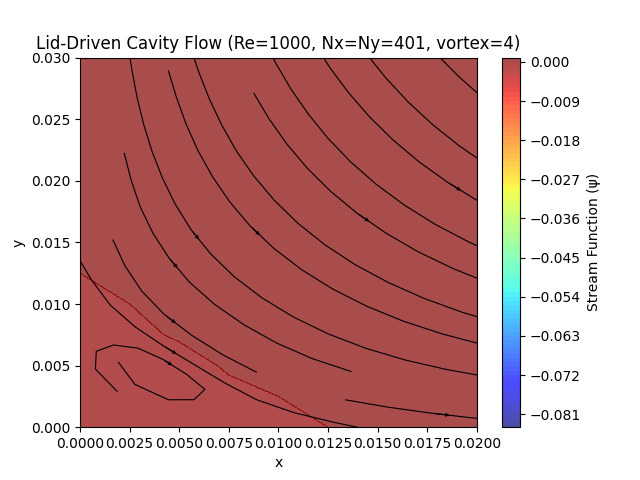
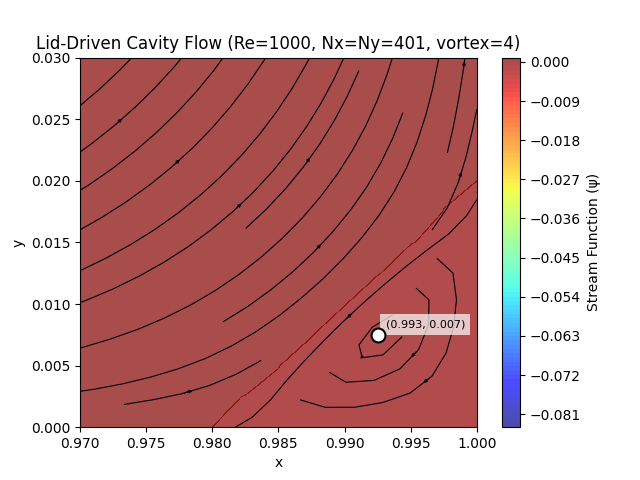
增添涡心标注

diff --git a/HW5forCFD/plot.py b/HW5forCFD/plot.py
@@ -2,6 +2,15 @@ import numpy as np
 import matplotlib.pyplot as plt
 
 data = np.load('./data/flow_data.npz', allow_pickle = True)
+vortex = []
+
+def find_vortex(x, y, psi, N):#寻找流函数极值点确定涡心
+    for j in range(N - 2, 0, -1):
+        for i in range(1, N - 1):
+            if psi[i, j] > max(psi[i - 1, j], psi[i + 1, j], psi[i, j - 1], psi[i, j + 1], psi[i + 1, j + 1], psi[i - 1, j + 1], psi[i - 1, j - 1], psi[i + 1, j - 1]):
+                vortex.append([x[i], y[j]])
+            elif psi[i, j] < min(psi[i - 1, j], psi[i + 1, j], psi[i, j - 1], psi[i, j + 1], psi[i + 1, j + 1], psi[i - 1, j + 1], psi[i - 1, j - 1], psi[i + 1, j - 1]):
+                vortex.append([x[i], y[j]])
 
 #绘图，ai生成
 def plot_streamline(x, y, psi, u, v, N, density, x_start, x_end, y_start, y_end, num):#order代表着重展示的涡的编号
@@ -29,6 +38,9 @@ def plot_streamline(x, y, psi, u, v, N, density, x_start, x_end, y_start, y_end,
     plt.xlim(x_start, x_end)
     plt.ylim(y_start, y_end)
 
+    plt.scatter(vortex[num - 1][0], vortex[num - 1][1], s=100, c='white', edgecolors='black', linewidths=1.5, zorder=4)
+    plt.text(vortex[num - 1][0] + (x_end - x_start) / 50, vortex[num - 1][1] + (y_end - y_start) / 50, f'({vortex[num - 1][0]:.3f}, {vortex[num - 1][1]:.3f})', fontsize=8, bbox=dict(facecolor='white', alpha=0.7, edgecolor='none'))
+    
     plt.title(f'Lid-Driven Cavity Flow (Re={1000}, Nx=Ny={N}, vortex={num})')
     plt.xlabel('x')
     plt.ylabel('y')
@@ -58,10 +70,11 @@ def plot_u(N, x, u):
     plt.grid(True)
     plt.savefig('./pictures/u_at_y_m')
 
+find_vortex(data['x'], data['y'], data['psi'], data['N'])
 plot_streamline(data['x'], data['y'], data['psi'], data['u'], data['v'], data['N'], 2, 0, 1, 0, 1, 1)#主涡
-plot_streamline(data['x'], data['y'], data['psi'], data['u'], data['v'], data['N'], 8, 0, 0.3, 0, 0.3, 2)#左侧二次涡
-plot_streamline(data['x'], data['y'], data['psi'], data['u'], data['v'], data['N'], 8, 0.6, 1, 0, 0.5, 3)#右侧二次涡
-plot_streamline(data['x'], data['y'], data['psi'], data['u'], data['v'], data['N'], 15, 0, 0.02, 0, 0.03, 4)#左侧三次涡
-plot_streamline(data['x'], data['y'], data['psi'], data['u'], data['v'], data['N'], 15, 0.97, 1, 0, 0.03, 5)#右侧三次涡
+plot_streamline(data['x'], data['y'], data['psi'], data['u'], data['v'], data['N'], 8, 0.6, 1, 0, 0.5, 2)#右侧二次涡
+plot_streamline(data['x'], data['y'], data['psi'], data['u'], data['v'], data['N'], 8, 0, 0.3, 0, 0.3, 3)#左侧二次涡
+plot_streamline(data['x'], data['y'], data['psi'], data['u'], data['v'], data['N'], 15, 0.97, 1, 0, 0.03, 4)#右侧三次涡
+plot_streamline(data['x'], data['y'], data['psi'], data['u'], data['v'], data['N'], 15, 0, 0.02, 0, 0.03, 5)#左侧三次涡
 plot_u(data['N'], data['x'], data['u'])
 plot_v(data['N'], data['y'], data['v'])
